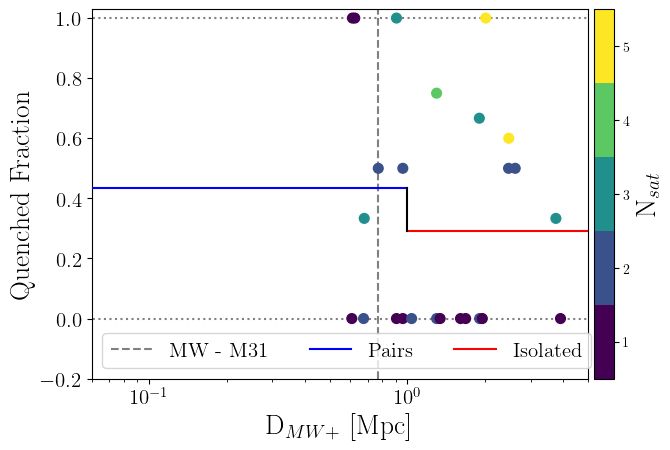
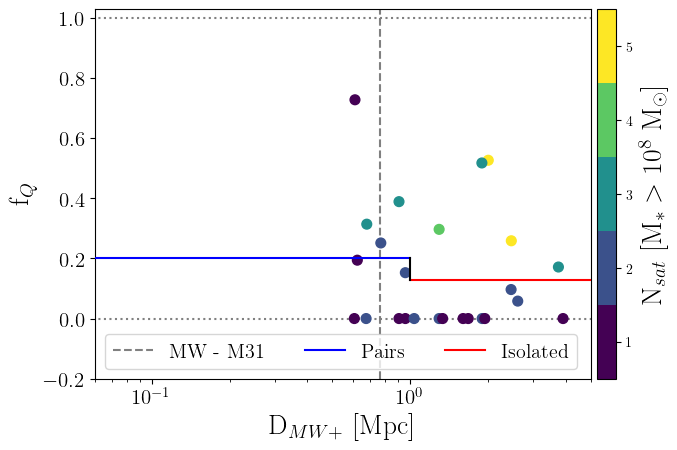
Having MilkyWayAnalogs.py write out text lists of halo IDs for pynbody follow up. Created file for minimum satellite property tracking

diff --git a/Code/FormattedPlots/PlotFunctions.py b/Code/FormattedPlots/PlotFunctions.py
@@ -1536,18 +1536,18 @@ def QuenchedFractionVsEnvironment(host,sats,rest,rad,over,path=''):
                 if sats[sat]['Quenched']:
                     q+=1
         if t>0:
-            qf.append(float(q)/float(t))
+            qf.append(float(q)/float(t)*host[mw]['Mstar']/(10**11))
             d = host[mw]['Closest_MW+'][0]/1000
             env.append(d)
             tots.append(t)
             if d<1:
-                qclose.append(float(q)/float(t))
+                qclose.append(float(q)/float(t)*host[mw]['Mstar']/(10**11))
             else:
-                qfar.append(float(q)/float(t))
+                qfar.append(float(q)/float(t)*host[mw]['Mstar']/(10**11))
     
     f,ax = plt.subplots(1,1)
     ax.set_xlabel(r'D$_{MW+}$ [Mpc]',fontsize=20)
-    ax.set_ylabel('Quenched Fraction',fontsize=20)
+    ax.set_ylabel(r'f$_Q$',fontsize=20)
     ax.tick_params(labelsize=15)
     ax.set_xlim([.06,5])
     ax.set_ylim([-.2,1.03])
@@ -1558,12 +1558,12 @@ def QuenchedFractionVsEnvironment(host,sats,rest,rad,over,path=''):
     norm = mpl.colors.BoundaryNorm(np.arange(.5,max(tots)+1.5), mpl.cm.viridis.N)
     p = ax.scatter(env,qf,s=7**2,c=tots,cmap='viridis',norm=norm,zorder=5)
     cbar = f.colorbar(p,cax=f.add_axes([.91,.11,.03,.77]))
-    cbar.set_label(r'N$_{sat}$',fontsize=20)
+    cbar.set_label(r'N$_{sat}$ [M$_*>10^8$ M$_\odot$]',fontsize=20)
     cbar.set_ticks(np.arange(1,max(tots)+1))
     ax.plot([0,1],[np.mean(qclose),np.mean(qclose)],c='b',label='Pairs',zorder=6)
     ax.plot([1,5],[np.mean(qfar),np.mean(qfar)],c='r',label='Isolated',zorder=6)
     ax.plot([1,1],[np.mean(qclose),np.mean(qfar)],c='k',zorder=6)
-    ax.legend(loc='lower left',ncol=3,prop={'size':15})
+    ax.legend(loc='lower left',ncol=3,prop={'size':14.5})
     ax.semilogx()
     f.savefig(f'{path}QuenchedFractionVsEnvironment.{rest}.{rad}.{over}.png',bbox_inches='tight',pad_inches=.1)
     #f.savefig(f'{path}pdf/QuenchedFractionVsEnvironment.'+rest+'.'+rad+'.'+over+'.pdf',bbox_inches='tight',pad_inches=.1)

diff --git a/MilkyWayAnalogs.py b/MilkyWayAnalogs.py
@@ -339,3 +339,18 @@ done = datetime.now()
 out = open(output_path+f'Logs/TextLog.{args.definition}.{args.radius}.{overlap}.txt','w')
 out.writelines(['Last Run:\n',f'\t{done.month}-{done.day}-{done.year}, {done.hour}:{done.minute}:{done.second} CT\n']+TextLog)
 out.close()
+
+#Writeout Halo List in Text File
+MilkyWayHalos,SatelliteHalos,LargeHalosList = [],[],[]
+for mw in MilkyWays:
+    MilkyWayHalos.append(f'{mw}\n')
+with open(output_path + f'MilkyWay.{args.definition}.{args.radius}.{overlap}.Halos.txt','w') as f:
+    f.writelines(MilkyWayHalos)
+for sat in Satellites:
+    SatelliteHalos.append(f'{sat}\n')
+with open(output_path + f'Satellite.{args.definition}.{args.radius}.{overlap}.Halos.txt','w') as f:
+    f.writelines(SatelliteHalos)
+for lh in LargeHalos:
+    LargeHalosList.append(f'{lh}\n')
+with open(output_path + f'LargeHalos.Halos.txt','w') as f:
+    f.writelines(LargeHalosList)

diff --git a/Code/SatMinInfo.py b/Code/SatMinInfo.py
@@ -1,0 +1,19 @@
+import pickle
+import numpy as np
+
+file_path = '../DataFiles/'
+
+defs,rads,over = [1,2,3,4,5,6,7],['sim','300'],['Yov','Nov']
+
+print('def\tr\tOverlap\tMstar\tNpart')
+for r in rads:
+    print('------------------------------------------------------------------------------------------------')
+    for d in defs:
+        for o in over:
+            sat = pickle.load(open(f'{file_path}Satellite.{d}.{r}.{o}.pickle','rb'))
+            Mstar,Npart= [],[]
+            for s in sat:
+                Mstar.append(round(np.log10(sat[s]['Mstar']),3))
+                Npart.append(0)
+            ov = 'Yes' if o=='Yov' else 'No'
+            print(f'{d}\t{r}\t{ov}\t{min(Mstar)}\t{min(Npart)}')
